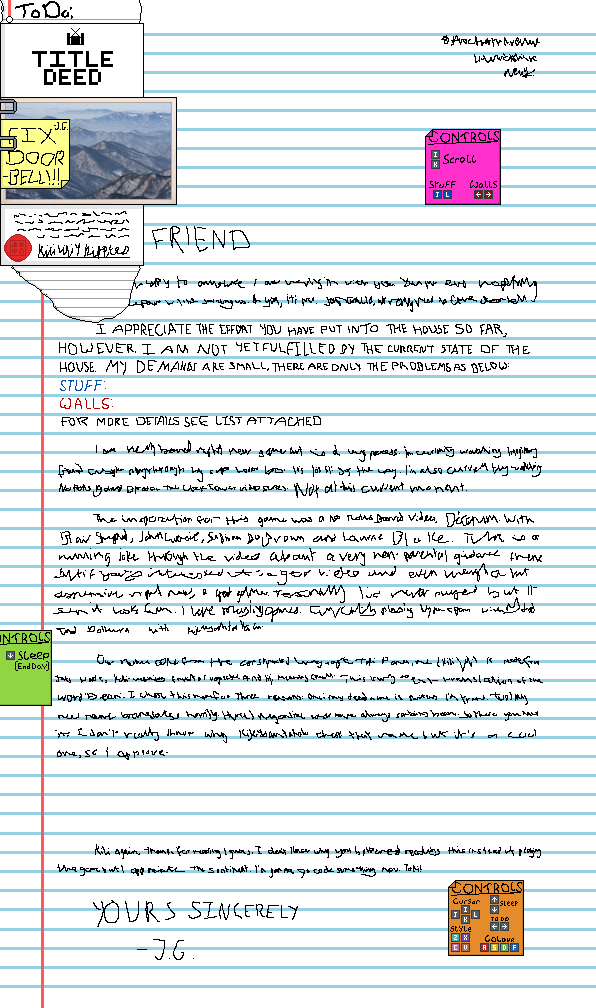
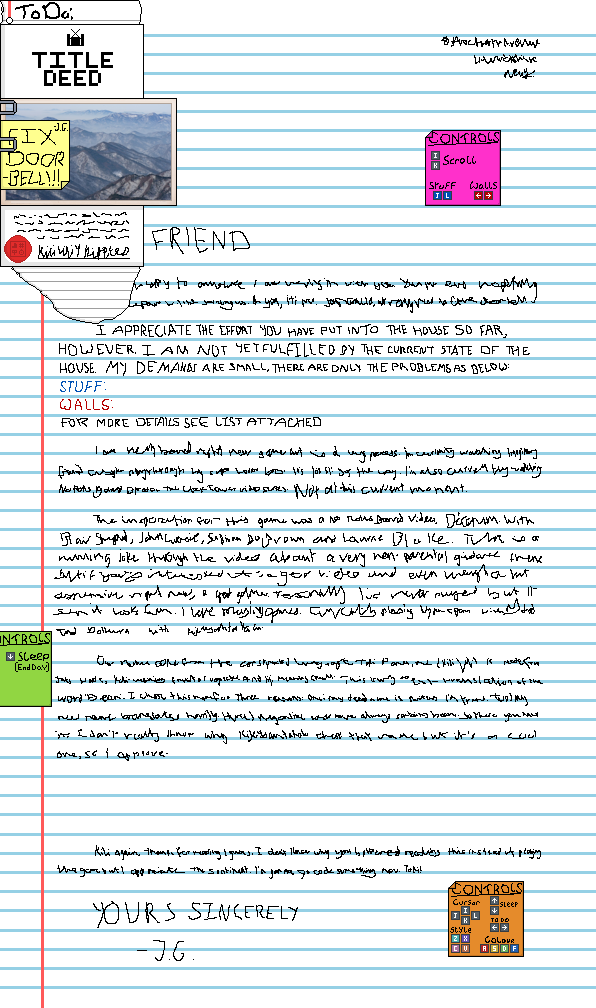
play trans

Changed region(s): [[0.0, 0.0, 1.0, 0.7688], [0.0, 0.7996, 1.0, 0.9841], [0.2416, 0.0308, 1.0, 0.0923]]

diff --git a/main.py b/main.py
@@ -11,7 +11,7 @@ if len(sys.argv) <= 1 or not "debug" in sys.argv[1]:
 
 mainloop = True
 setup_loop = True
-setup_scroll = 0
+setup_scroll = -336
 
 img_cache = {}
 
@@ -485,8 +485,17 @@ while title_loop:
     update_count += 1
     print("FPS", 1/(time.time() - frame_start), end = "\r")
 
-
 #SETUP
+
+while setup_loop and setup_scroll < 0:
+    frame_start = time.time()
+    root.update_idletasks()
+    root.update()
+    draw_setup()
+    update_count += 1
+    if setup_scroll < 0:
+        setup_scroll += 28
+    print("FPS", 1/(time.time() - frame_start), end = "\r")
 
 root.unbind("<KeyPress>")
 root.bind("<KeyPress>", handle_keypress_setup)
